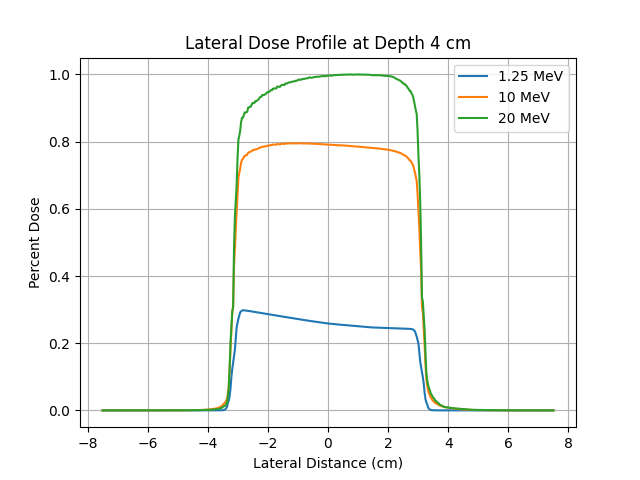
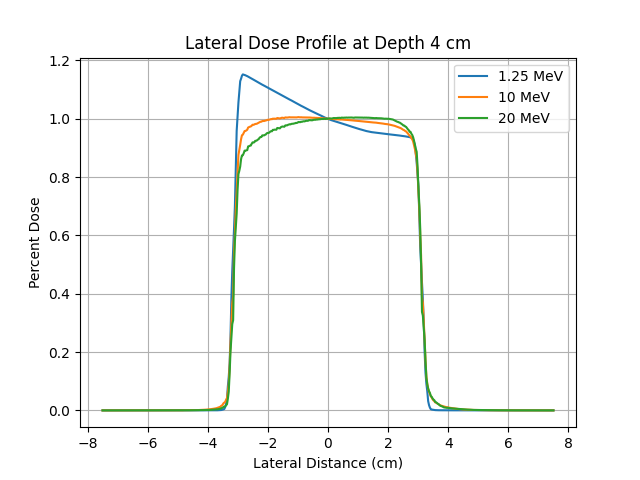
Adjusted lateral depth dose profiles to be normalized at central axis.

diff --git a/Lab 2.py b/Lab 2.py
@@ -45,7 +45,7 @@ class DoseMap:
         self.DPB_Dose = {}
         # Initialize DPB_polor maps
 
-        # Find SSD point on centeral dose map coordinate system:
+        # Find SSD point on central dose map coordinate system:
         self.x0_idx = self.y0_idx = int(
             (self.N - 1) / 2
         )  # x (or y) idx of central axis
@@ -57,7 +57,7 @@ class DoseMap:
             self.patient_width / self.N
         )
 
-        # Centeral coordinate system for plotting (origin at SSD of centeral axis)
+        # central coordinate system for plotting (origin at SSD of central axis)
         self.x0_idx = int(self.N / 2 - 1)
         self.y0_idx = int(self.surface_arr[self.x0_idx])
 
@@ -86,12 +86,14 @@ class DoseMap:
             # Apply ISL:
             y_cm = self._y_cm(y_idx)
             dSSD_cm = self.ySSD_cm - y_cm
-            beam = (self.SSD / (self.SSD + dSSD_cm)) ** 2
+            SPD = dSSD_cm + self.SSD
+
+            beam = (self.SSD / (SPD)) ** 2  # Apply ISL to values
+
             fluence_map[y_idx, :] = beam
 
             # Apply width divergence of beam:
             # Calculate range of x values for which there is a beam width
-            SPD = dSSD_cm + self.SSD
             beam_width_cm = (
                 (SPD) * (self.beam_width0) / self.SSD
             )  # similar triangles, 100/6 = SPD/width, or width = SPD *  (width0/SSD)
@@ -253,22 +255,39 @@ class DoseMap:
         plt.grid()
         plt.show()
 
-    def plot_lat_dose_profiles(self) -> None:
+    def plot_lat_dose_profiles(self, normalization="individual") -> None:
+        """
+        Docstring for plot_lat_dose_profiles
+
+        :param normalization: "individual" | "total" | "central axis"
+        """
         depth_4cm = int(self.y0_idx + 4 * (self.N / self.patient_width))
         x_min = -patient_width / 2
         x_max = patient_width / 2
         x = np.linspace(x_min, x_max, self.N)
         dose_profile_list = []
-        max_dose = 0
-        for energy, map in self.dose_maps.items():
-            dose_profile = map[depth_4cm, :]
-            dose_profile_list.append(dose_profile)
-            max_dose = max(max_dose, dose_profile.max())
-            dose_profile = dose_profile  # Normalize
 
-        for energy, map in self.dose_maps.items():
-            dose_profile = map[depth_4cm, :]
-            plt.plot(x, dose_profile / max_dose, label=f"{energy} MeV")
+        match normalization:
+            case "total":
+                max_dose = 0
+                for energy, map in self.dose_maps.items():
+                    dose_profile = map[depth_4cm, :]
+                    dose_profile_list.append(dose_profile)
+                    max_dose = max(max_dose, dose_profile.max())
+                    dose_profile = dose_profile  # Normalize
+                for energy, map in self.dose_maps.items():
+                    dose_profile = map[depth_4cm, :]
+                    plt.plot(x, dose_profile / max_dose, label=f"{energy} MeV")
+
+            case "individual":
+                for energy, map in self.dose_maps.items():
+                    dose_profile = map[depth_4cm, :]
+                    plt.plot(x, dose_profile / dose_profile.max(), label=f"{energy} MeV")
+            
+            case "central axis":
+                for energy, map in self.dose_maps.items():
+                    dose_profile = map[depth_4cm, :]
+                    plt.plot(x, dose_profile / dose_profile[self.x0_idx], label=f"{energy} MeV")
 
         plt.xlabel("Lateral Distance (cm)")
         plt.ylabel("Percent Dose")
@@ -564,9 +583,9 @@ energy = 10
 # patient.plot_DPB_kernal(20)
 
 # ––––––– Deliverable 2: Display primary fluence wo phantom (i.e. ISL + beam width) –––––––
-patient.create_fluence(energy=1.25)
-patient.create_fluence(energy=10)
-patient.create_fluence(energy=20)
+# patient.create_fluence(energy=1.25)
+# patient.create_fluence(energy=10)
+# patient.create_fluence(energy=20)
 # patient.plot_dose_map(
 #     energy=1.25,
 #     title="Primary Fluence in Absence of Phantom",
@@ -574,9 +593,9 @@ patient.create_fluence(energy=20)
 # )
 
 # ––––––– Deliverable 3: Display attenuation in tissue along ray-lines –––––––
-patient.apply_attenuation(energy=1.25, option="ray trace")
-patient.apply_attenuation(energy=10, option="ray trace")
-patient.apply_attenuation(energy=20, option="ray trace")
+# patient.apply_attenuation(energy=1.25, option="ray trace")
+# patient.apply_attenuation(energy=10, option="ray trace")
+# patient.apply_attenuation(energy=20, option="ray trace")
 # # patient.plot_dose_map(
 #     energy=1.25, title=f"{1.25} MeV 2D Dose Map | Attenuation in Tissue"
 # )
@@ -591,15 +610,18 @@ patient.apply_attenuation(energy=20, option="ray trace")
 # patient.plot_dose_map(20, title=f"{20} MeV 2D Dose Plot via Convolution for Troubleshooting")
 
 
-# patient.dose_maps[1.25] = patient._load("1_25_MeV_Dose_Map_FFT")
+# patient.apply_DPB_kernel(energy=1.25)
+# patient.apply_DPB_kernel(energy=10)
+# patient.apply_DPB_kernel(energy=20)
+# patient._save(patient.dose_maps[1.25], "1_25_MeV_Dose_Map")
+# patient._save(patient.dose_maps[10], "10_MeV_Dose_Map")
+# patient._save(patient.dose_maps[20], "20_MeV_Dose_Map")
 
 
-patient.apply_DPB_kernel(energy=1.25)
-patient.apply_DPB_kernel(energy=10)
-patient.apply_DPB_kernel(energy=20)
-patient._save(patient.dose_maps[1.25], "1_25_MeV_Dose_Map")
-patient._save(patient.dose_maps[10], "10_MeV_Dose_Map")
-patient._save(patient.dose_maps[20], "20_MeV_Dose_Map")
+patient.dose_maps[1.25] = patient._load("1_25_MeV_Dose_Map")
+patient.dose_maps[10] = patient._load("10_MeV_Dose_Map")
+patient.dose_maps[20] = patient._load("20_MeV_Dose_Map")
+
 patient.plot_dose_map(1.25, title=f"{1.25} MeV | 2D Dose with Applied DPB Kernel")
 patient.plot_dose_map(10, title=f"{10} MeV | 2D Dose with Applied DPB Kernel")
 patient.plot_dose_map(20, title=f"{20} MeV | 2D Dose with Applied DPB Kernel")
@@ -610,4 +632,4 @@ patient.plot_PDD()
 
 
 # ––––––– Deliverable 6:  curves –––––––
-patient.plot_lat_dose_profiles()
+patient.plot_lat_dose_profiles(normalization="central axis")
